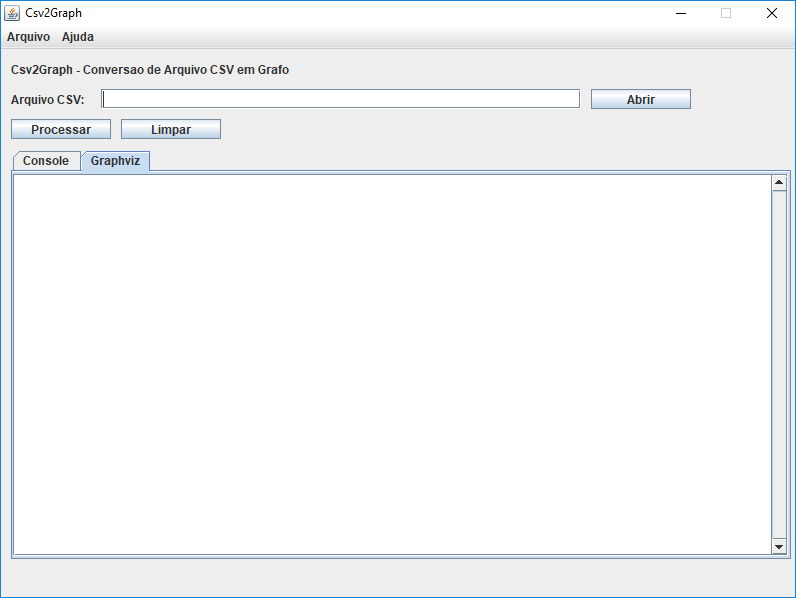
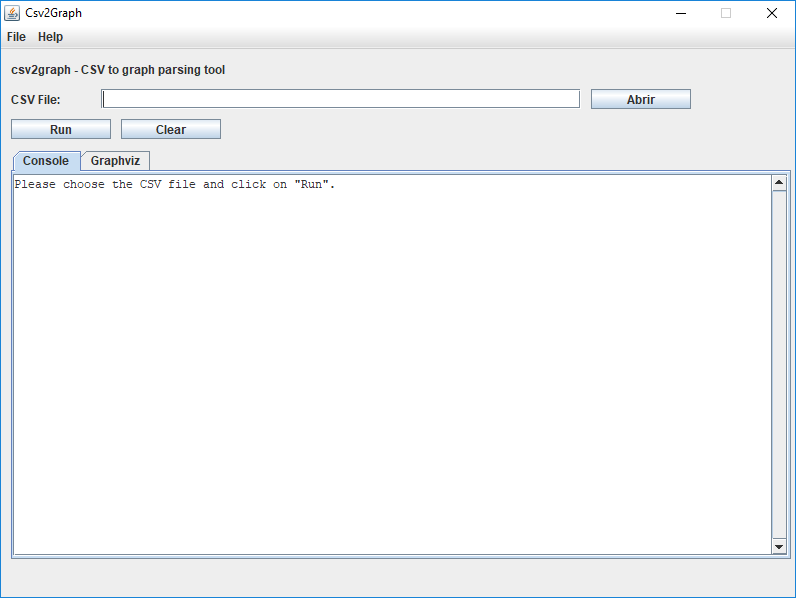
Translation to English language.

Changed region(s): [[0.0, 0.2107, 0.4221, 0.3311], [0.0, 0.0301, 0.3618, 0.1806]]

diff --git a/source/src/main/java/br/unb/face/csv2graph/ui/Csv2GraphApplicationFrame.java b/source/src/main/java/br/unb/face/csv2graph/ui/Csv2GraphApplicationFrame.java
@@ -26,16 +26,16 @@ public class Csv2GraphApplicationFrame extends JFrame {
 	private static final long serialVersionUID = 1L;
 
 	private JMenuBar jMenuBar;
-	private JMenu jMenuArquivo;
-	private JMenu jMenuAjuda;
-	private JMenuItem jMenuItemSair;
-	private JMenuItem jMenuItemSobre;
+	private JMenu jMenuFile;
+	private JMenu jMenuHelp;
+	private JMenuItem jMenuItemExit;
+	private JMenuItem jMenuItemAbout;
 
-	private JTextField jTextFieldCaminho;
-	private JFileChooser jFCArquivoCsv;
-	private JButton jButtonArquivoCsv;
-	private JButton jButtonProcessar;
-	private JButton jButtonLimpar;
+	private JTextField jTextFieldCsvPath;
+	private JFileChooser jFileChooserCsv;
+	private JButton jButtonCsvFile;
+	private JButton jButtonRun;
+	private JButton jButtonClear;
 
 	private JTabbedPane jTabbedPane;
 	private JScrollPane scrollPaneConsole;
@@ -56,19 +56,19 @@ public class Csv2GraphApplicationFrame extends JFrame {
 		jMenuBar = new JMenuBar();
 		setJMenuBar(jMenuBar);
 
-		jMenuArquivo = new JMenu("Arquivo");
-		jMenuBar.add(jMenuArquivo);
+		jMenuFile = new JMenu("File");
+		jMenuBar.add(jMenuFile);
 
-		jMenuItemSair = new JMenuItem("Sair");
-		jMenuArquivo.add(jMenuItemSair);
+		jMenuItemExit = new JMenuItem("Exit");
+		jMenuFile.add(jMenuItemExit);
 
 		/* ----------------------------------------------------------------- */
 
-		jMenuAjuda = new JMenu("Ajuda");
-		jMenuBar.add(jMenuAjuda);
+		jMenuHelp = new JMenu("Help");
+		jMenuBar.add(jMenuHelp);
 
-		jMenuItemSobre = new JMenuItem("Sobre");
-		jMenuAjuda.add(jMenuItemSobre);
+		jMenuItemAbout = new JMenuItem("About");
+		jMenuHelp.add(jMenuItemAbout);
 	}
 
 	private void initLayout() {
@@ -85,7 +85,7 @@ public class Csv2GraphApplicationFrame extends JFrame {
 		/* ----------------------------------------------------------------- */
 
 		JLabel jLabelTitulo = new JLabel();
-		jLabelTitulo.setText("Csv2Graph - Conversao de Arquivo CSV em Grafo");
+		jLabelTitulo.setText("csv2graph - CSV to graph parsing tool");
 		jLabelTitulo.setBounds(x, y, 700, 20);
 		getContentPane().add(jLabelTitulo);
 		x = initX;
@@ -93,41 +93,41 @@ public class Csv2GraphApplicationFrame extends JFrame {
 
 		/* ----------------------------------------------------------------- */
 
-		JLabel jLabelArquivoCsv = new JLabel();
-		jLabelArquivoCsv.setText("Arquivo CSV:");
-		jLabelArquivoCsv.setBounds(x, y, 80, 20);
-		getContentPane().add(jLabelArquivoCsv);
-		x += jLabelArquivoCsv.getWidth() + gapX;
+		JLabel jLabelCsvFile = new JLabel();
+		jLabelCsvFile.setText("CSV File:");
+		jLabelCsvFile.setBounds(x, y, 80, 20);
+		getContentPane().add(jLabelCsvFile);
+		x += jLabelCsvFile.getWidth() + gapX;
 
-		jTextFieldCaminho = new JTextField();
-		jTextFieldCaminho.setText("");
-		jTextFieldCaminho.setBounds(x, y, 480, 20);
-		getContentPane().add(jTextFieldCaminho);
-		x += jTextFieldCaminho.getWidth() + gapX;
+		jTextFieldCsvPath = new JTextField();
+		jTextFieldCsvPath.setText("");
+		jTextFieldCsvPath.setBounds(x, y, 480, 20);
+		getContentPane().add(jTextFieldCsvPath);
+		x += jTextFieldCsvPath.getWidth() + gapX;
 
-		jFCArquivoCsv = new JFileChooser();
-		jButtonArquivoCsv = new JButton("Abrir");
-		jButtonArquivoCsv.setBounds(x, y, 100, 20);
-		getContentPane().add(jButtonArquivoCsv);
+		jFileChooserCsv = new JFileChooser();
+		jButtonCsvFile = new JButton("Abrir");
+		jButtonCsvFile.setBounds(x, y, 100, 20);
+		getContentPane().add(jButtonCsvFile);
 		x = initX;
-		y += jTextFieldCaminho.getHeight() + gapY;
+		y += jTextFieldCsvPath.getHeight() + gapY;
 
 		/* ----------------------------------------------------------------- */
 
-		jButtonProcessar = new JButton("Processar");
-		jButtonProcessar.setBounds(x, y, 100, 20);
-		getContentPane().add(jButtonProcessar);
-		x += jButtonProcessar.getWidth() + gapX;
+		jButtonRun = new JButton("Run");
+		jButtonRun.setBounds(x, y, 100, 20);
+		getContentPane().add(jButtonRun);
+		x += jButtonRun.getWidth() + gapX;
 
-		jButtonLimpar = new JButton("Limpar");
-		jButtonLimpar.setBounds(x, y, 100, 20);
-		getContentPane().add(jButtonLimpar);
+		jButtonClear = new JButton("Clear");
+		jButtonClear.setBounds(x, y, 100, 20);
+		getContentPane().add(jButtonClear);
 		x = initX;
-		y += jButtonLimpar.getHeight() + gapY;
+		y += jButtonClear.getHeight() + gapY;
 
 		/* ----------------------------------------------------------------- */
 
-		textAreaConsole = new JTextArea("Informe o arquivo CSV e clique em \"Processar\".\n");
+		textAreaConsole = new JTextArea("Please choose the CSV file and click on \"Run\".\n");
 		textAreaConsole.setFont(new Font("monospaced", Font.PLAIN, 12));
 		textAreaConsole.setLineWrap(true);
 		textAreaConsole.setWrapStyleWord(true);
@@ -156,55 +156,55 @@ public class Csv2GraphApplicationFrame extends JFrame {
 
 		setDefaultCloseOperation(JFrame.EXIT_ON_CLOSE);
 
-		jMenuItemSair.addActionListener(new ActionListener() {
+		jMenuItemExit.addActionListener(new ActionListener() {
 			public void actionPerformed(ActionEvent e) {
 				System.exit(NORMAL);
 			}
 		});
 
-		jMenuItemSobre.addActionListener(new ActionListener() {
+		jMenuItemAbout.addActionListener(new ActionListener() {
 			public void actionPerformed(ActionEvent e) {
 				JOptionPane.showMessageDialog(getContentPane(),
-						"Csv2Graph\n" + "Professor Mauricio Bugarim\n" + "FACE/UnB - Setembro de 2017");
+						"csv2graph\n" + "http://github.com/gjportella/csv2graph/wiki\n" + "September, 2017.");
 			}
 		});
 
-		jButtonArquivoCsv.addActionListener(new ActionListener() {
+		jButtonCsvFile.addActionListener(new ActionListener() {
 			public void actionPerformed(ActionEvent evt) {
-				int returnVal = jFCArquivoCsv.showOpenDialog(Csv2GraphApplicationFrame.this);
+				int returnVal = jFileChooserCsv.showOpenDialog(Csv2GraphApplicationFrame.this);
 				if (returnVal == JFileChooser.APPROVE_OPTION) {
-					File file = jFCArquivoCsv.getSelectedFile();
-					jTextFieldCaminho.setText(file.getAbsolutePath());
+					File file = jFileChooserCsv.getSelectedFile();
+					jTextFieldCsvPath.setText(file.getAbsolutePath());
 				}
 			}
 		});
 
-		jButtonLimpar.addActionListener(new ActionListener() {
+		jButtonClear.addActionListener(new ActionListener() {
 			public void actionPerformed(ActionEvent evt) {
-				jTextFieldCaminho.setText("");
-				textAreaConsole.setText("Informe o arquivo CSV e clique em \"Processar\".\n");
+				jTextFieldCsvPath.setText("");
+				textAreaConsole.setText("Please choose the CSV file and click on \"Run\".\n");
 				textAreaGraphviz.setText("");
 			}
 		});
 
-		jButtonProcessar.addActionListener(new ActionListener() {
+		jButtonRun.addActionListener(new ActionListener() {
 			public void actionPerformed(ActionEvent evt) {
-				jButtonProcessarActionPerformed(evt);
+				jButtonRunActionPerformed(evt);
 			}
 		});
 	}
 
-	private void jButtonProcessarActionPerformed(ActionEvent evt) {
+	private void jButtonRunActionPerformed(ActionEvent evt) {
 
-		Csv2Graph csv2Graph = new Csv2Graph(jTextFieldCaminho.getText());
+		Csv2Graph csv2Graph = new Csv2Graph(jTextFieldCsvPath.getText());
 		try {
 			csv2Graph.doConversion();
 			textAreaConsole.setText(csv2Graph.getLogBuilder().toString());
 			textAreaGraphviz.setText(csv2Graph.getGraphvizBuilder().toString());
 
 		} catch (Exception ex) {
-			textAreaConsole.setText("Erro ao processar arquivo CSV (linha= " + Integer.toString(csv2Graph.getRow())
-					+ ", coluna= " + Integer.toString(csv2Graph.getColumn()) + ").\n" + ex.toString());
+			textAreaConsole.setText("Error processing the CSV file (line= " + Integer.toString(csv2Graph.getRow())
+					+ ", column= " + Integer.toString(csv2Graph.getColumn()) + ").\n" + ex.toString());
 		}
 	}
 }

diff --git a/source/src/main/java/br/unb/face/csv2graph/graph/Csv2Graph.java b/source/src/main/java/br/unb/face/csv2graph/graph/Csv2Graph.java
@@ -75,7 +75,7 @@ public class Csv2Graph {
 			}
 
 		} catch (IOException ioEx) {
-			throw new Exception("Erro ao processar arquivo CSV.", ioEx);
+			throw new Exception("Runtime error processing CSV file.", ioEx);
 
 		} finally {
 			if (csvReader != null) {
